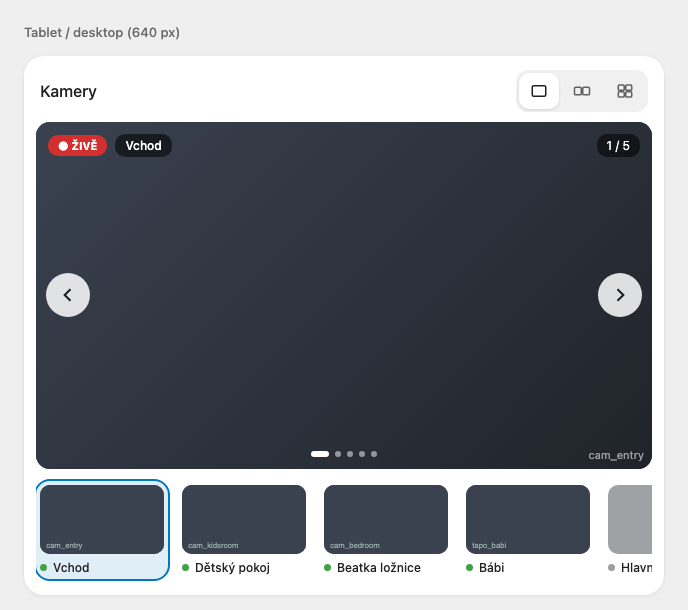
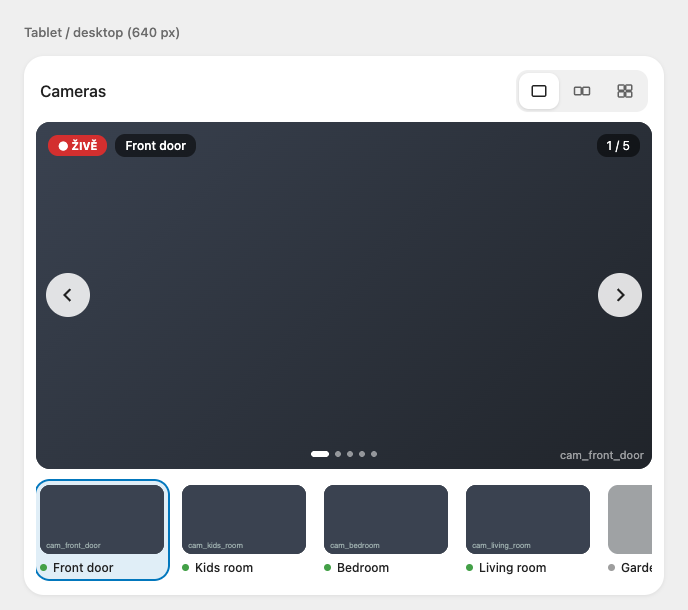
docs: generic English camera names in demo, README and screenshots

diff --git a/demo.html b/demo.html
@@ -30,7 +30,7 @@
 
   const states = {
     'input_select.hfb_cameras_layout': { state: '1' },
-    'camera.hlavni_vchod': { state: 'unavailable' },
+    'camera.garden': { state: 'unavailable' },
   };
   const cards = [];
   const hass = {
@@ -43,11 +43,11 @@
     hassUrl: (p) => p,
   };
   const cameras = [
-    { stream: 'cam_entry', name: 'Vchod' },
-    { stream: 'cam_kidsroom', name: 'Dětský pokoj' },
-    { stream: 'cam_bedroom', name: 'Beatka ložnice' },
-    { stream: 'tapo_babi', name: 'Bábi' },
-    { stream: 'hlavni_vchod', name: 'Hlavní vchod', entity: 'camera.hlavni_vchod' },
+    { stream: 'cam_front_door', name: 'Front door' },
+    { stream: 'cam_kids_room', name: 'Kids room' },
+    { stream: 'cam_bedroom', name: 'Bedroom' },
+    { stream: 'cam_living_room', name: 'Living room' },
+    { stream: 'cam_garden', name: 'Garden', entity: 'camera.garden' },
   ];
   const layout = new URLSearchParams(location.search).get('layout') || '1';
   states['input_select.hfb_cameras_layout'] = { state: layout };
@@ -57,7 +57,7 @@
     col.className = 'col ' + cls;
     col.innerHTML = `<h3>${label}</h3>`;
     const card = document.createElement('camera-deck-card');
-    card.setConfig({ layout_entity: 'input_select.hfb_cameras_layout', cameras });
+    card.setConfig({ title: 'Cameras', layout_entity: 'input_select.hfb_cameras_layout', cameras });
     card.hass = hass;
     col.appendChild(card);
     document.body.appendChild(col);

diff --git a/README.md b/README.md
@@ -32,14 +32,14 @@ HACS → ⋮ → Custom repositories → `https://github.com/eMalinos/camera-dec
 
 ```yaml
 type: custom:camera-deck-card
-title: Kamery
+title: Cameras
 layout_entity: input_select.hfb_cameras_layout
 cameras:
-  - stream: cam_entry
-    name: Vchod
-    entity: camera.cam_entry
+  - stream: cam_front_door
+    name: Front door
+    entity: camera.front_door
   - stream: cam_bedroom
-    name: Beatka ložnice
+    name: Bedroom
 ```
 
 | Option | Required | Description |
